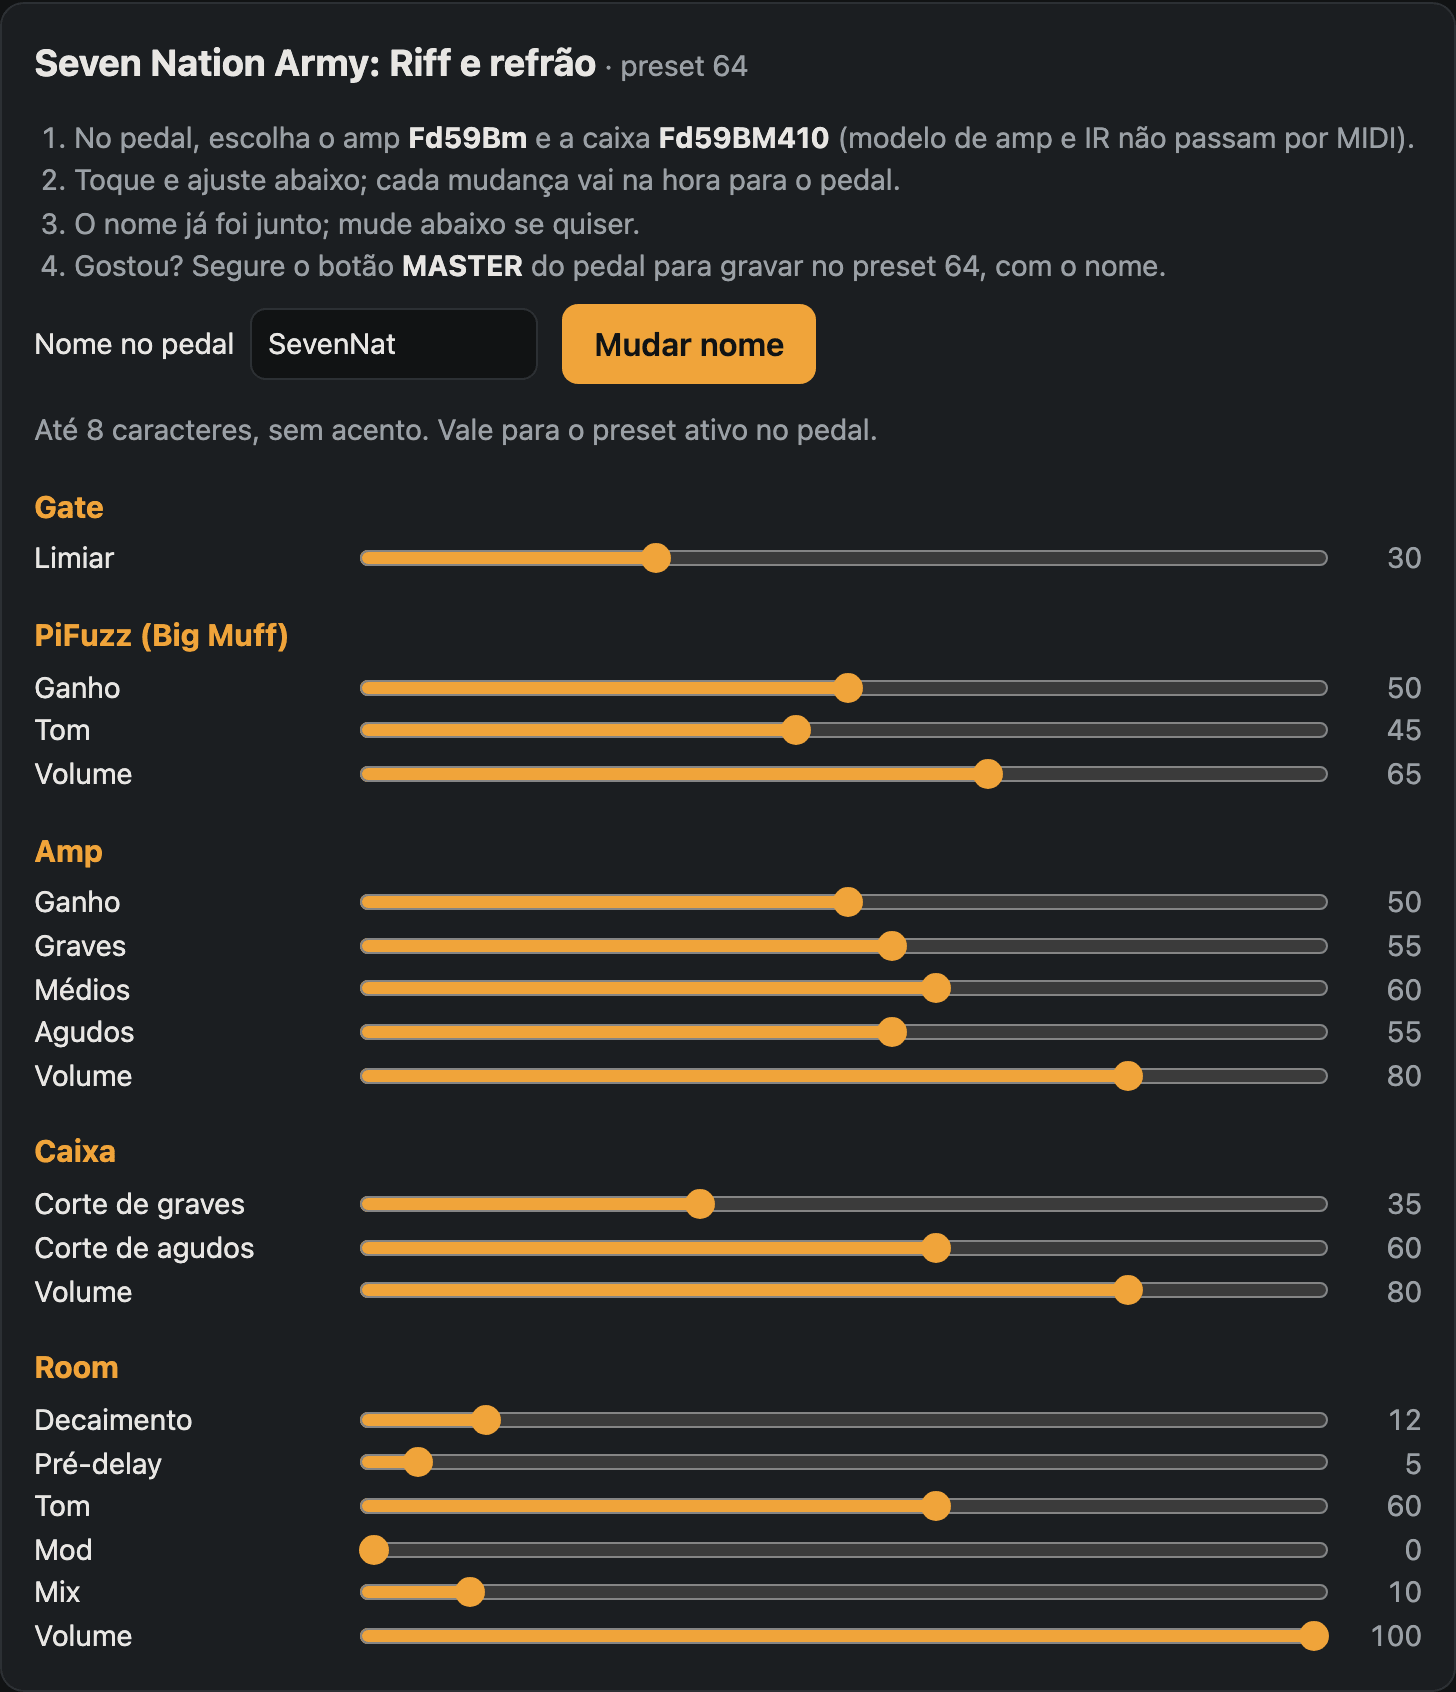
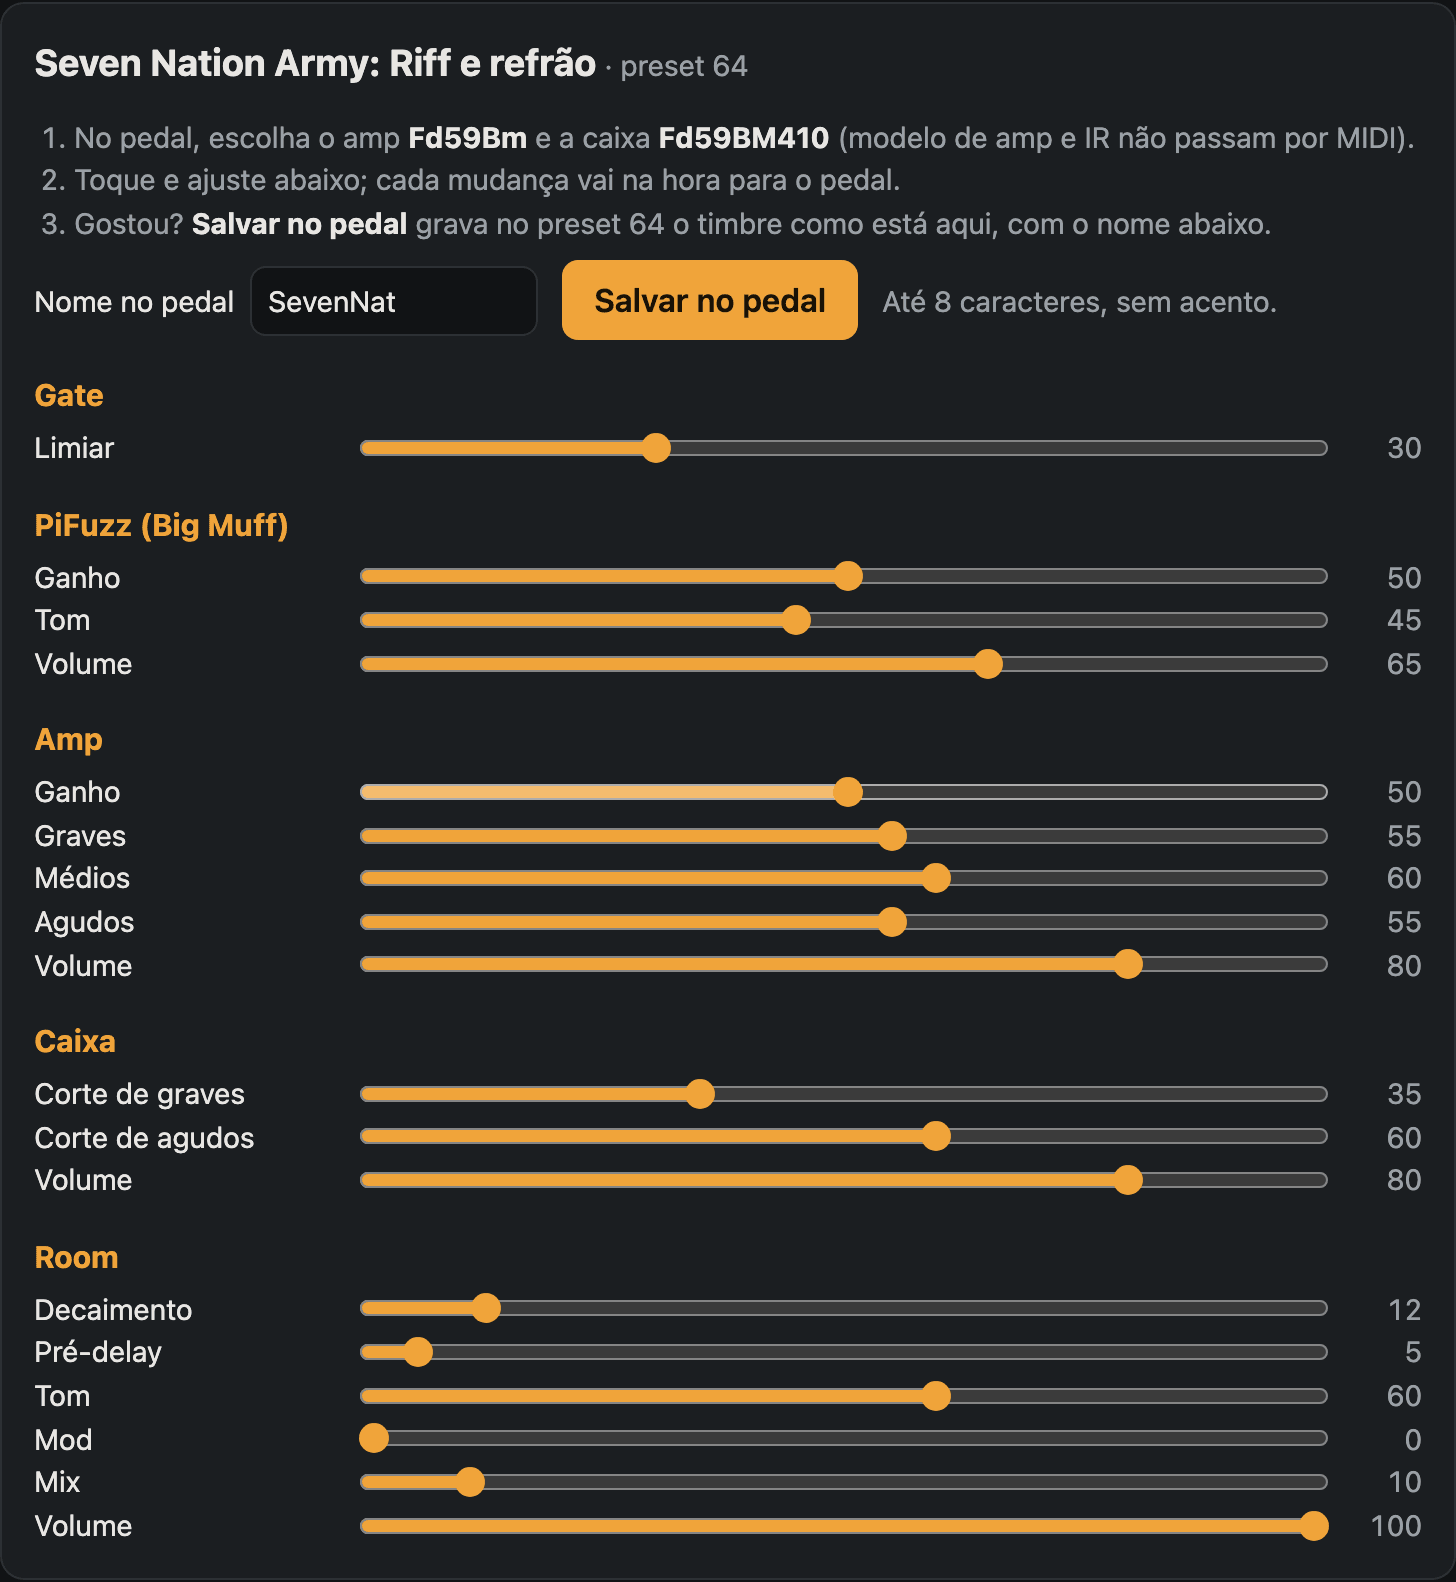
Salvar no pedal: seleciona o preset com confirmação, reenvia o timbre e o nome e só então salva, repetindo o passo que ficar sem resposta; os avisos do pedal só vêm com o app oficial aberto e deixaram de ser usados como proteção

diff --git a/app/app.vue b/app/app.vue
@@ -5,7 +5,6 @@
 import {
   BLOCKS,
   NAME_MAX,
-  NOTICE_ACTIVE_PRESET,
   blockInfo,
   cc,
   paramCC,
@@ -13,6 +12,7 @@ import {
   presetName,
   renameMessage,
   saveMessage,
+  selectMessage,
   toneMessages,
   type Block,
   type PedalMessage,
@@ -38,8 +38,6 @@ const name = ref('')
 let output: MIDIOutput | undefined
 const { baseURL } = useRuntimeConfig().app // no GitHub Pages o site fica em /Tonebook/
 
-// Preset ativo no pedal: o site sabe quando manda a troca, e o pedal avisa quando a pessoa troca nele
-const activeSlot = ref<number | null>(null)
 const saving = ref(false)
 const saveMsg = ref('')
 const saveError = ref('')
@@ -56,7 +54,6 @@ const waiting = new Map<number, (reply: PedalMessage) => void>()
 function onPedalMessage(event: MIDIMessageEvent) {
   const message = event.data && parseSysex(event.data)
   if (!message) return
-  if (message.kind === 'notice' && message.command === NOTICE_ACTIVE_PRESET) activeSlot.value = message.data[0]! + 1
   if (message.kind === 'response') waiting.get(message.seq)?.(message)
 }
 
@@ -163,7 +160,6 @@ function apply(song: Song, part: SongPart) {
   if (!output) return
   const tone = structuredClone(toRaw(part.tone)) // as salvas chegam como proxy reativo, que não clona
   current.value = { song, part, tone, slot: slot.value }
-  activeSlot.value = slot.value
   saveMsg.value = saveError.value = ''
 
   // nome sugerido: título (e parte, se houver mais de uma) só com letras e números, até 8 caracteres
@@ -177,31 +173,43 @@ function apply(song: Song, part: SongPart) {
   rest.forEach((message, i) => output!.send(message, start + 150 + i * 4))
 }
 
-// Nome e gravação valem para o preset ativo; se a pessoa trocou de preset no pedal, não mexe em outro
-function pedalOnCurrent(): boolean {
-  saveMsg.value = saveError.value = ''
-  const target = current.value!.slot
-  if (activeSlot.value === target) return true
-  saveError.value = `O pedal está no preset ${activeSlot.value ?? '?'}, não no ${target}. Envie o timbre de novo.`
-  return false
+// Pede e exige a confirmação do pedal. Às vezes um pedido ou a resposta se perde no USB; como cada passo pode ser
+// repetido sem efeito colateral (selecionar o mesmo preset, renomear, salvar o mesmo conteúdo), tenta até 3 vezes.
+// Sem confirmação, para tudo antes de gravar.
+async function confirmed(build: (seq: number) => number[], step: string) {
+  for (let attempt = 0; attempt < 3; attempt++) {
+    const reply = await request(build)
+    if (!reply) continue
+    if (reply.status !== 0) throw new Error(`O pedal recusou ${step} (status ${reply.status}). Nada foi gravado.`)
+    return
+  }
+  throw new Error(`O pedal não respondeu ao ${step}. Nada foi gravado; confira o cabo e a permissão de MIDI.`)
 }
 
-function rename() {
-  if (pedalOnCurrent()) output?.send(renameMessage(name.value, nextSeq()))
-}
+const wait = (ms: number) => new Promise(resolve => setTimeout(resolve, ms))
 
-// Grava o preset na memória do pedal, com o nome do campo (o mesmo comando do botão de salvar do app oficial)
+// Grava o que está no site no preset de destino. Não confia no estado do pedal (a pessoa pode ter trocado de preset
+// nele, e o pedal só avisa trocas com o app oficial aberto): seleciona o preset com confirmação, manda o timbre e o
+// nome de novo e só então salva, com o mesmo comando do botão de salvar do app.
 async function save() {
-  if (!pedalOnCurrent()) return
-  const target = current.value!.slot
+  const { slot: target, tone } = current.value!
   if (!confirm(`Gravar no preset ${target} do pedal? O que estava salvo nele será substituído.`)) return
   saving.value = true
-  const named = await request(s => renameMessage(name.value, s))
-  const reply = named?.status === 0 ? await request(s => saveMessage(target, s)) : named
-  saving.value = false
-  if (reply?.status === 0) saveMsg.value = `Salvo no preset ${target}, com o nome ${name.value}.`
-  else if (reply) saveError.value = `O pedal recusou (status ${reply.status}). Nada foi gravado.`
-  else saveError.value = 'O pedal não respondeu. Confira a conexão e tente de novo.'
+  saveMsg.value = saveError.value = ''
+  try {
+    await confirmed(s => selectMessage(target, s), 'pedido de troca de preset')
+    await wait(150) // o pedal sobrescreve o que chega enquanto carrega o preset
+    const [, ...controls] = toneMessages(tone, target) // sem a troca de preset, já feita acima
+    controls.forEach(message => output!.send(message))
+    await confirmed(s => renameMessage(name.value, s), 'nome')
+    await wait(100)
+    await confirmed(s => saveMessage(target, s), 'pedido de salvar')
+    saveMsg.value = `Salvo no preset ${target}, com o nome ${name.value}.`
+  } catch (e) {
+    saveError.value = (e as Error).message
+  } finally {
+    saving.value = false
+  }
 }
 
 function tweak(block: Block, index: number, value: number) {
@@ -294,10 +302,12 @@ const activeBlocks = computed(() => {
           <strong>{{ current.tone.cab }}</strong> (modelo de amp e IR não passam por MIDI).
         </li>
         <li>Toque e ajuste abaixo; cada mudança vai na hora para o pedal.</li>
-        <li>O nome já foi junto; mude abaixo se quiser.</li>
-        <li>Gostou? <strong>Salvar no pedal</strong> grava o preset {{ current.slot }}, com o nome.</li>
+        <li>
+          Gostou? <strong>Salvar no pedal</strong> grava no preset {{ current.slot }} o timbre como está aqui, com o
+          nome abaixo.
+        </li>
       </ol>
-      <form class="name-row" @submit.prevent="rename">
+      <form class="name-row" @submit.prevent="save">
         <label>
           Nome no pedal
           <input
@@ -307,14 +317,11 @@ const activeBlocks = computed(() => {
             @input="name = presetName(($event.target as HTMLInputElement).value)"
           />
         </label>
-        <button type="submit">Mudar nome</button>
-        <span class="muted">Até {{ NAME_MAX }} caracteres, sem acento. Vale para o preset ativo no pedal.</span>
+        <button type="submit" :disabled="saving">{{ saving ? 'Salvando…' : 'Salvar no pedal' }}</button>
+        <span class="muted">Até {{ NAME_MAX }} caracteres, sem acento.</span>
       </form>
-      <div class="name-row">
-        <button :disabled="saving" @click="save">{{ saving ? 'Salvando…' : 'Salvar no pedal' }}</button>
-        <span v-if="saveMsg" class="ok">{{ saveMsg }}</span>
-        <span v-if="saveError" class="error">{{ saveError }}</span>
-      </div>
+      <p v-if="saveMsg" class="ok">{{ saveMsg }}</p>
+      <p v-if="saveError" class="error">{{ saveError }}</p>
       <div v-for="{ block, state, info } in activeBlocks" :key="block" class="block">
         <h3>{{ info.name }}</h3>
         <label v-for="(label, i) in info.params" :key="label" class="param">

diff --git a/shared/nanocore.ts b/shared/nanocore.ts
@@ -195,8 +195,13 @@ export const presetName = (text: string) =>
     .slice(0, NAME_MAX)
 
 // Renomeia o preset ativo (comando 0x6d, subcomando 0x08, como o app faz). Vale até trocar de preset; saveMessage grava.
+// Seleciona o preset (comando 0x6d, subcomando 0x09, como o app faz). Diferente do Program Change, o pedal responde.
+export function selectMessage(slot: number, seq: number): number[] {
+  return sysex(seq, 0x6d, [0x09, slot - 1])
+}
+
 // Grava o preset ativo na memória do pedal (comando 0x46 com o número do preset, como o botão de salvar do app).
-// Só com o preset ativo: o app nunca mandou outro número, e não se sabe o que o pedal faz nesse caso.
+// Só com o preset ativo, confirmado logo antes por selectMessage: com outro número, não se sabe o que o pedal faz.
 export function saveMessage(slot: number, seq: number): number[] {
   return sysex(seq, 0x46, [slot - 1])
 }

diff --git a/docs/protocolo.md b/docs/protocolo.md
@@ -98,7 +98,7 @@ O `seq` é um contador de quem pede; a resposta repete o `seq` e o comando.
 | `0x68` | Batimento: o app manda a cada 3 s | resposta `02 01 88 13` (0x1388 = 5000, provavelmente o prazo em ms) | observado |
 | `0x6d` sub `0x08` | **Renomeia o preset ativo** | `08 <tamanho> <ASCII>` | **usado pelo site**, testado no pedal |
 | `0x6d` sub `0x09` | Seleciona o preset | `09 <slot 0–63>` | testado no pedal |
-| `0x46` | **Salva o preset ativo na memória** | `<slot 0–63>` do preset ativo | **usado pelo site**, testado no pedal (é o botão de salvar do app) |
+| `0x46` | **Salva o preset ativo na memória** | `<slot 0–63>` do preset ativo | **usado pelo site**, testado no pedal (é o botão de salvar do app). Com o pedal em outro preset, a resposta também é status 0 e não se sabe o que ele grava |
 | `0x6d` sub `0x00` | O app manda ao começar a editar | resposta `00 04 ff 03 08` | observado, sentido desconhecido |
 | `0x41` | Lê o registro de um preset | resposta `[slot][início u16][total u16][trecho]`, em trechos de até 200 bytes; o registro começa com `01 02 07 00 02 10` e o nome num campo de 16 bytes | observado; o formato do pedido não apareceu |
 | `0x63` | Retrato do preset ativo | resposta começa com `03 <slot> <volume>` e segue com floats | observado |
@@ -112,7 +112,22 @@ O `seq` é um contador de quem pede; a resposta repete o `seq` e o comando.
 | `0x62` | parâmetro mudou: `<effectId> <índice> <float32>` (o `effectId` é o do arquivo de backup, abaixo) |
 | `0x69` | volume do preset: `<0–100>` |
 
-O pedal **só avisa o que muda**: trocar entre dois presets com o mesmo volume não gera `0x69`.
+O pedal **só avisa o que muda**: trocar entre dois presets com o mesmo volume não gera `0x69`. E **só avisa com o app
+oficial aberto** (mantendo o batimento `0x68`): com o ToneCommand fechado, trocar de preset no pedal ou pelo `0x6d 09`
+não gera `0x60`. Não use os avisos para segurança.
+
+Pedidos e respostas às vezes se perdem no USB (num teste, um `0x46` ficou sem resposta e o mesmo pedido, repetido,
+passou). Repita o pedido, com outro `seq`, quando repetir não tem efeito colateral.
+
+### Como o site salva
+
+1. Seleciona o preset de destino com `0x6d 09` e espera o status 0 (o Program Change não é confirmado).
+2. Espera 150 ms, manda de novo todos os CCs do timbre como está no site e o nome (`0x6d 08`, confirmado).
+3. Manda `0x46` com o mesmo preset e só diz "salvo" com o status 0.
+
+Assim não importa o que aconteceu no pedal desde o envio do timbre (a pessoa pode ter trocado de preset no pedal):
+grava o que está no site, no preset do campo. Cada passo é repetido até 3 vezes sem resposta; sem confirmação, o site
+para antes do `0x46`.
 
 ### Regra de segurança
 

diff --git a/AGENTS.md b/AGENTS.md
@@ -49,12 +49,14 @@ arquivos de `shared/` (assim o Node roda os testes sem build).
 
 ## Invariantes (não quebre)
 
-- **Gravar na memória do pedal só com clique em "Salvar no pedal"**, com confirmação, e só no preset ativo que recebeu
-  o timbre (`pedalOnCurrent`: o pedal avisa a troca de preset com `0x60`, e o site recusa se não for o mesmo). O
-  `0x46` nunca vai com outro número que não o do preset ativo. Nada de sessão de escrita (`0x21` a `0x24`) ou de
-  firmware.
+- **Gravar na memória do pedal só com clique em "Salvar no pedal"**, com confirmação, e sempre pela sequência do
+  `save()` (`app/app.vue`): seleciona o preset de destino com `0x6d 09` e espera a confirmação, reenvia o timbre e o
+  nome, e só então manda o `0x46` com o mesmo preset. Nunca confie no estado do pedal nem nos avisos dele para
+  segurança: os avisos (`0x60` e outros) só chegam com o app oficial aberto. Nada de sessão de escrita (`0x21` a
+  `0x24`) ou de firmware.
 - **SysEx só com o que o app oficial manda**, com dados no mesmo formato e conferido no pedal (status 0 na resposta).
-  Hoje são três: renomear (`0x6d 08`), salvar (`0x46`) e, nos testes, selecionar (`0x6d 09`). Comando novo segue o roteiro de
+  Hoje são três: selecionar (`0x6d 09`), renomear (`0x6d 08`) e salvar (`0x46`). Pedido sem resposta pode ser
+  repetido quando repetir não tem efeito colateral (`confirmed()` tenta até 3 vezes). Comando novo segue o roteiro de
   `docs/protocolo.md` e entra com a mensagem capturada num teste. Nunca teste comando desconhecido no pedal.
 - **Tudo que vem de fora passa pelo `parseSong`**: o JSON colado e o que está salvo no navegador. Campo novo no
   formato entra no validador, no `prompt-ia.md` e nos testes juntos.

diff --git a/README.md b/README.md
@@ -45,10 +45,10 @@ Gish) e At Doom's Gate (Doom, 1993).
 2. Escolha o preset de destino (padrão: 64) e clique em **Enviar** na parte da música.
 3. No pedal, escolha o amp e a caixa indicados: o MIDI do NanoCore não troca o modelo de amp nem a IR.
 4. Toque e ajuste nos controles.
-5. O nome vai junto com o timbre (até 8 caracteres, sem acento); para trocar, edite **Nome no pedal** e clique em
-   **Mudar nome**.
-6. Gostou? **Salvar no pedal** grava o preset de destino, com o nome do campo, depois de confirmar. Trocar de preset
-   antes disso descarta as mudanças, e o site recusa salvar se o pedal estiver em outro preset.
+5. Dê um nome em **Nome no pedal** (até 8 caracteres, sem acento).
+6. Gostou? **Salvar no pedal** grava no preset de destino o timbre como está no site, com o nome, depois de
+   confirmar. Antes de salvar, o site seleciona de novo o preset e reenvia tudo, então não importa se você trocou de
+   preset no pedal no meio do caminho; ele só diz "salvo" quando o pedal confirma.
 
 <p align="center">
   <img src="docs/screenshots/editor.png" alt="Editor ao vivo do Seven Nation Army: nome do preset e controles de cada efeito" width="480">
